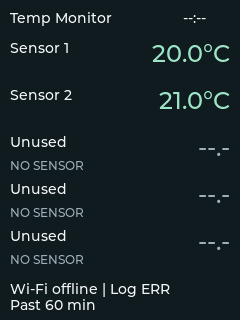
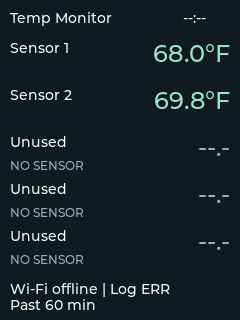
Default temperature units to Fahrenheit on LCD and web

Changed region(s): [[0.6417, 0.125, 0.9625, 0.2188], [0.6417, 0.2812, 0.9625, 0.3438]]

diff --git a/web/src/App.test.tsx b/web/src/App.test.tsx
@@ -24,7 +24,7 @@ it('shows empty sensors honestly without a fabricated reading', async () => {
   expect(
     screen.queryByText(/No history available yet/),
   ).not.toBeInTheDocument();
-  expect(screen.queryByText('0.0 °C')).not.toBeInTheDocument();
+  expect(screen.queryByText('32.0 °F')).not.toBeInTheDocument();
 });
 it('shows the age of the latest valid probe reading', async () => {
   const snapshot = {
@@ -48,7 +48,7 @@ it('shows the age of the latest valid probe reading', async () => {
   );
   render(<App />);
   expect(await screen.findByText('Updated 5 seconds ago')).toBeInTheDocument();
-  expect(screen.getByText('-18.5 °C')).toBeInTheDocument();
+  expect(screen.getByText('-1.3 °F')).toBeInTheDocument();
 });
 it('shows all five probes with long labels without dropping readings', async () => {
   const sensors = Array.from({ length: 5 }, (_, index) => ({
@@ -71,7 +71,7 @@ it('shows all five probes with long labels without dropping readings', async () 
   expect(
     await screen.findByText('Probe 5 insulated utility room'),
   ).toBeInTheDocument();
-  expect(screen.getByText('24.0 °C')).toBeInTheDocument();
+  expect(screen.getByText('75.2 °F')).toBeInTheDocument();
 });
 it('keeps healthy sensors visible alongside bus and per-probe fault states', async () => {
   const snapshot = {
@@ -132,7 +132,7 @@ it('keeps healthy sensors visible alongside bus and per-probe fault states', asy
   expect(screen.getByText('high')).toBeInTheDocument();
   expect(screen.getByText('disabled')).toBeInTheDocument();
   expect(screen.getByText('disconnected')).toBeInTheDocument();
-  expect(screen.getByText('21.0 °C')).toBeInTheDocument();
+  expect(screen.getByText('69.8 °F')).toBeInTheDocument();
 });
 it('reports excess and incomplete physical probe discovery', async () => {
   vi.stubGlobal(

diff --git a/web/src/App.tsx b/web/src/App.tsx
@@ -47,7 +47,7 @@ export default function App() {
   const [dark, setDark] = useState(
     () => matchMedia?.('(prefers-color-scheme: dark)').matches ?? false,
   );
-  const [unit, setUnit] = useState<'C' | 'F'>('C');
+  const [unit, setUnit] = useState<'C' | 'F'>('F');
   const [timezone, setTimezone] = useState<string | null>(null);
   const [probeScan, setProbeScan] = useState<ProbeScanStatus | null>(null);
   const applySettings = useCallback(

diff --git a/web/src/api/client.test.ts b/web/src/api/client.test.ts
@@ -52,6 +52,7 @@ describe('device contract', () => {
   it('converts only at presentation and never renders null as zero', () => {
     expect(temperature(null)).toBe('—');
     expect(temperature(0, 'F')).toBe('32.0 °F');
-    expect(temperature(-20)).toBe('-20.0 °C');
+    expect(temperature(-20, 'C')).toBe('-20.0 °C');
+    expect(temperature(-20)).toBe('-4.0 °F');
   });
 });

diff --git a/web/src/api/client.ts b/web/src/api/client.ts
@@ -30,7 +30,7 @@ export async function getSnapshot(signal?: AbortSignal): Promise<Snapshot> {
 }
 export function temperature(
   value: number | null,
-  unit: 'C' | 'F' = 'C',
+  unit: 'C' | 'F' = 'F',
 ): string {
   if (value === null || !Number.isFinite(value)) return '—';
   return `${(unit === 'F' ? value * 1.8 + 32 : value).toFixed(1)} °${unit}`;

diff --git a/firmware/display_tests/display_tests.cpp b/firmware/display_tests/display_tests.cpp
@@ -66,6 +66,24 @@ int main(int argc, char **argv) {
             view.render(registry, cache, options, status, 0);
             save("overview-" + std::to_string(count));
         }
+        {
+            // DS18B20 extremes must fit the same 7-character value field in both scales.
+            auto extremes = fake_readings(2);
+            *extremes[0].celsius = 125;
+            *extremes[1].celsius = -55;
+            Registry extreme_registry;
+            extreme_registry.sample(extremes, 0);
+            const auto fahrenheit_rows = display_rows(extreme_registry, true);
+            CHECK(fahrenheit_rows[0].value == "257.0\xC2\xB0"
+                                              "F");
+            CHECK(fahrenheit_rows[1].value == "-67.0\xC2\xB0"
+                                              "F");
+            const auto celsius_rows = display_rows(extreme_registry, false);
+            CHECK(celsius_rows[0].value == "125.0\xC2\xB0"
+                                           "C");
+            CHECK(celsius_rows[1].value == "-55.0\xC2\xB0"
+                                           "C");
+        }
         auto sensors = registry.sensors();
         for (unsigned i = 0; i < sensors.size(); ++i) {
             auto settings = sensors[i].settings;
@@ -88,10 +106,13 @@ int main(int argc, char **argv) {
         status.local_time = "23:59";
         status.wifi = "connected";
         status.logging = true;
-        options.fahrenheit = true;
+        CHECK(options.fahrenheit); // default scale
         view.render(registry, cache, options, status, 6000);
         save("overview-negative-fahrenheit");
         options.fahrenheit = false;
+        view.render(registry, cache, options, status, 6000);
+        save("overview-negative-celsius");
+        options.fahrenheit = true;
         status.local_time.clear();
         registry.sample(fake_readings(), 10000);
         view.render(registry, cache, options, status, 10000);
@@ -210,6 +231,26 @@ int main(int argc, char **argv) {
                 bucket.sensors.push_back(
                     {sensor.rom, 20.0 + double(t / bucket_ms), 18, 34, 60, false});
             cache.add(bucket);
+        }
+        {
+            // Compact Overview in the default Fahrenheit scale at the DS18B20 extremes.
+            auto readings = fake_readings(5);
+            const double celsius_values[] = {125.0, -55.0, 37.8, 18.0625, 0.0};
+            for (size_t i = 0; i < 5; ++i)
+                readings[i].celsius = celsius_values[i];
+            Registry compact_registry;
+            compact_registry.sample(readings, 0);
+            CHECK(options.fahrenheit && !options.extended);
+            view.render(compact_registry, cache, options, status, 1000);
+            lv_tick_inc(50);
+            lv_refr_now(display);
+            save("overview-compact-fahrenheit");
+            options.fahrenheit = false;
+            view.render(compact_registry, cache, options, status, 1000);
+            lv_tick_inc(50);
+            lv_refr_now(display);
+            save("overview-compact-celsius");
+            options.fahrenheit = true;
         }
         options.extended = true;
         options.overview_seconds = 5;

diff --git a/firmware/tests/device_options_tests.cpp b/firmware/tests/device_options_tests.cpp
@@ -19,6 +19,11 @@ int main() {
     const auto restored_utc = decode_device_options(encode_device_options(saved_utc));
     CHECK(restored_utc && restored_utc->timezone == "UTC");
     CHECK(!options.extended && options.overview_seconds == 20 && options.trends_seconds == 10);
+    CHECK(options.fahrenheit); // new installs default to Fahrenheit
+    auto saved_celsius = options;
+    saved_celsius.fahrenheit = false;
+    const auto restored_celsius = decode_device_options(encode_device_options(saved_celsius));
+    CHECK(restored_celsius && !restored_celsius->fahrenheit); // saved Celsius is preserved
     options.extended = true;
     options.fahrenheit = true;
     options.timezone = "America/Los_Angeles";

diff --git a/firmware/components/monitor_core/include/display_model.hpp b/firmware/components/monitor_core/include/display_model.hpp
@@ -15,7 +15,7 @@ class TrendCache {
     std::deque<Bucket> buckets_; // <= 24 hours of five-minute windows, RAM only
 };
 struct DisplayOptions {
-    bool fahrenheit = false;
+    bool fahrenheit = true; // default scale; saved TMD1 settings keep their own value
     bool extended = false;
     unsigned overview_seconds = 20, trends_seconds = 10, lookback_minutes = 60;
 };

diff --git a/docs/validation/lcd-simulation.md b/docs/validation/lcd-simulation.md
@@ -25,7 +25,10 @@ Names are constrained to one line after visual review caught overlapping wraps.
 | Empty positions | [Overview](lcd-simulation/overview-empty.png) |
 | Five readings | [Overview](lcd-simulation/overview-5.png) |
 | Long labels and five warnings | [Overview](lcd-simulation/overview-five-warnings-long-names.png) |
-| Negative values and trusted time | [Overview](lcd-simulation/overview-negative-fahrenheit.png) |
+| Negative values and trusted time (Fahrenheit, the default) | [Overview](lcd-simulation/overview-negative-fahrenheit.png) |
+| Same values in Celsius | [Overview](lcd-simulation/overview-negative-celsius.png) |
+| Compact 128 × 160 Overview at DS18B20 extremes, Fahrenheit | [Overview](lcd-simulation/overview-compact-fahrenheit.png) |
+| Compact 128 × 160 Overview, Celsius | [Overview](lcd-simulation/overview-compact-celsius.png) |
 | No history | [Trends](lcd-simulation/trends-no-data.png) |
 | Missing interval | [Trends](lcd-simulation/trends-negative-with-gap.png) |
 | Bus fault | [Overview](lcd-simulation/overview-bus-fault.png) |

diff --git a/docs/WEB_UI_DESIGN_SPEC.md b/docs/WEB_UI_DESIGN_SPEC.md
@@ -155,7 +155,7 @@ Use distinct, comprehensible sections/cards:
 - **Overview dwell:** default **20 seconds** in Extended mode, adjustable independently.
 - **Trends dwell:** default **10 seconds** in Extended mode, adjustable independently.
 - **Trends lookback range:** default **60 minutes** (LCD's five small sparklines); granularity constrained by available 5-minute history; the live measurement remains separate.
-- **Units:** Celsius/Fahrenheit, default °C.
+- **Units:** Celsius/Fahrenheit, default °F (new installs; saved preferences are kept). The API, history and CSV stay Celsius.
 - Optional `Show disabled sensors`, LCD label preview and **backlight control only after hardware BL pin capability is verified**. Do not promise software brightness control until confirmed.
 - No on-LCD tap/press workflow. Preview with accurate 240×320 portrait mock on web.
 

diff --git a/docs/LCD_UI_DESIGN_SPEC.md b/docs/LCD_UI_DESIGN_SPEC.md
@@ -102,7 +102,7 @@ Use at most the ~240 × 320 canvas; prefer one tiny line chart per sensor rather
 | Overview duration | `20 s` | Active only in Extended mode |
 | Trends duration | `10 s` | Active only in Extended mode |
 | Trends time range | `60 min` | Suggested choices: 15 min / 1 h / 6 h / 24 h; bound by available history |
-| Temperature units | `°C` | `°C` / `°F`; applies to LCD and web UI by configured preference |
+| Temperature units | `°F` | `°C` / `°F`; applies to LCD and web UI by configured preference. The default applies to new installs; a saved preference is kept |
 | Time zone | User-selected | Store an unambiguous time-zone rule/identifier |
 | Sensor name | User-defined | Stable mapping to DS18B20 ROM ID |
 | Sensor enable | Enabled for discovered sensors | Disabling suppresses alerts from that sensor |
